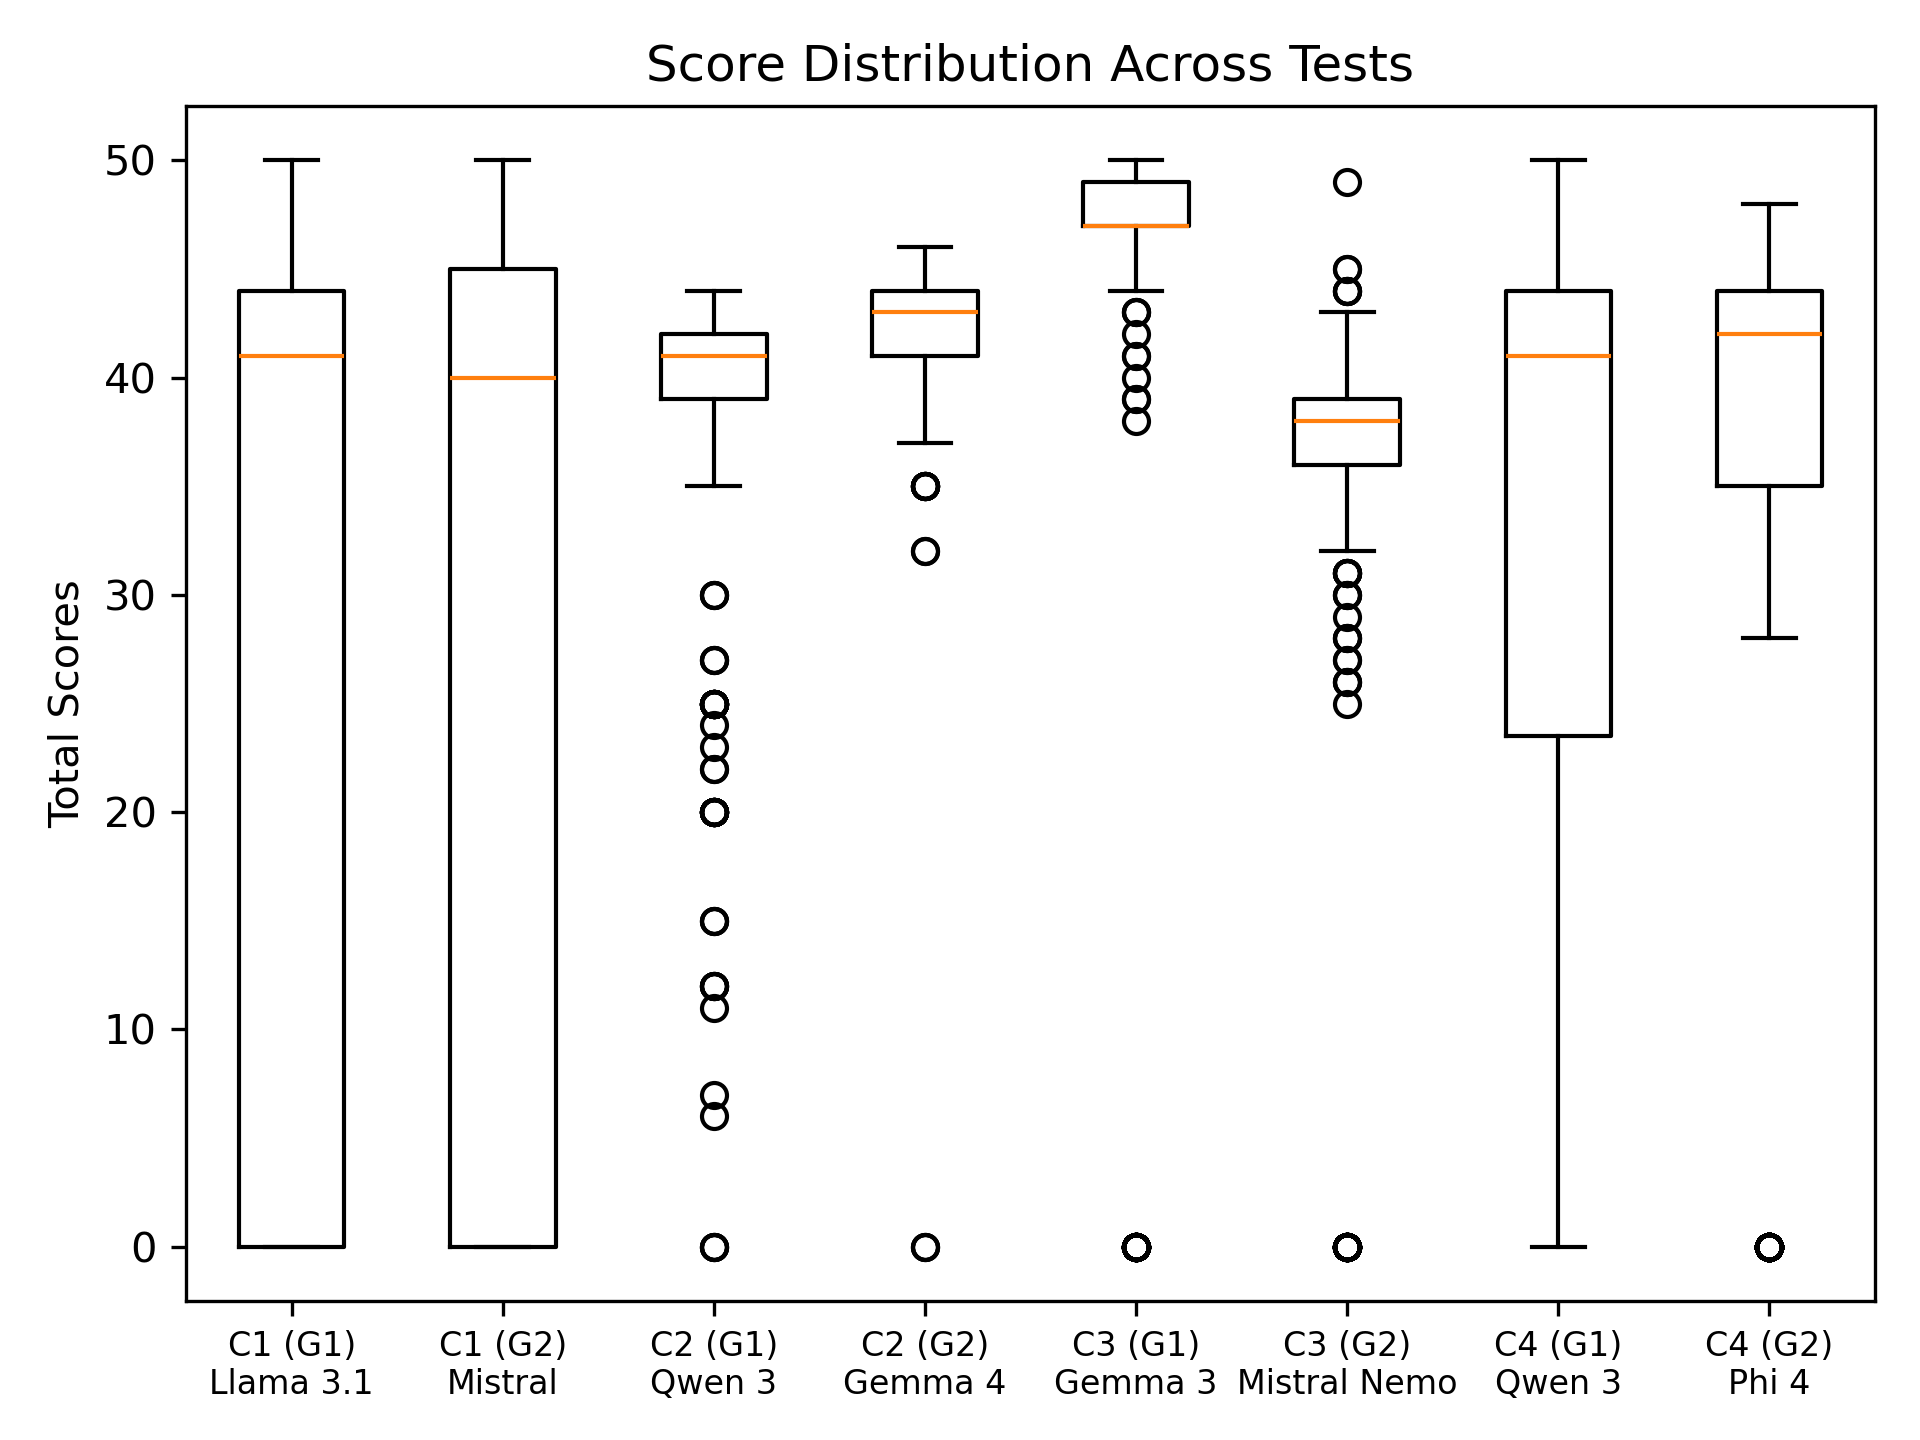
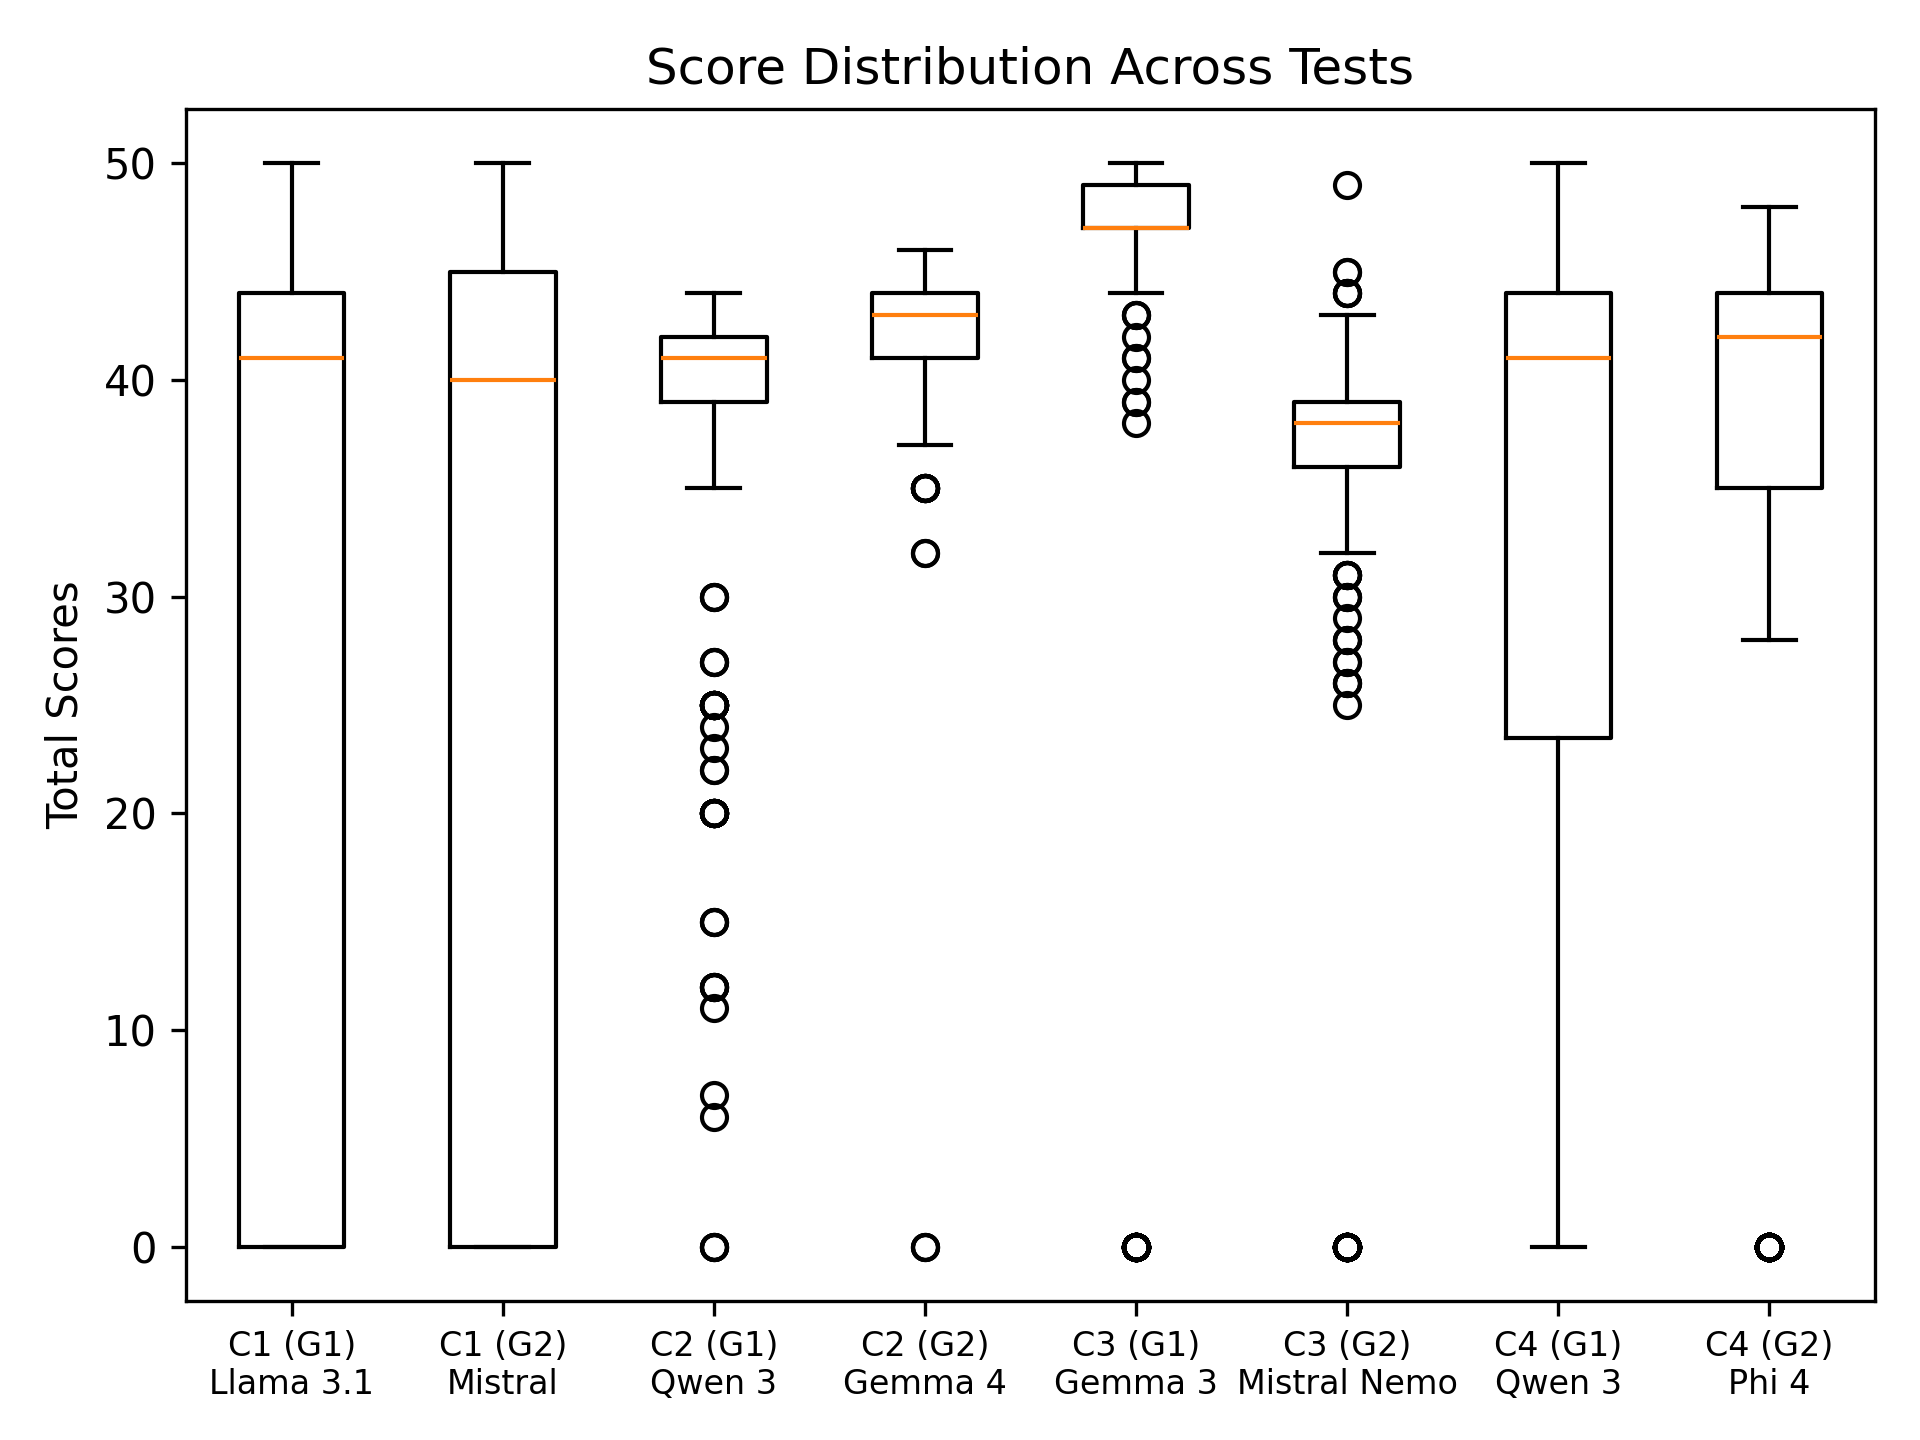
feat: add Spanish plot exports to consolidation script
Add localized versions of score distribution boxplot and criteria
subplots with Spanish labels and titles

diff --git a/examples/scripts/consolidate_results_fix.py b/examples/scripts/consolidate_results_fix.py
@@ -247,6 +247,15 @@ plt.tight_layout()
 
 plt.savefig(os.path.join(OUTPUTS_DIR, "total_score_distribution.png"), dpi=300)
 
+plt.figure()
+plt.boxplot(boxplot_data, tick_labels=boxplot_labels, vert=True)
+plt.ylabel("Puntajes Totales")
+plt.title("Distribución de Puntajes entre Tests")
+plt.xticks(rotation=0, ha="center", fontsize=8)
+plt.tight_layout()
+
+plt.savefig(os.path.join(OUTPUTS_DIR, "total_score_distribution_es.png"), dpi=300)
+
 # ============================
 # SUBPLOTS
 # ============================
@@ -306,6 +315,67 @@ for idx, label in enumerate(CRITERIA_LABELS_EN):
 plt.tight_layout()
 plt.savefig(
     os.path.join(OUTPUTS_DIR, "criteria_subplots.png"),
+    dpi=300,
+    bbox_inches="tight",
+)
+plt.close()
+
+# ============================
+# SUBPLOTS (ES)
+# ============================
+fig = plt.figure(figsize=(10, 10))
+gs = GridSpec(3, 2, figure=fig)
+
+axes = [
+    fig.add_subplot(gs[0, 0]),
+    fig.add_subplot(gs[0, 1]),
+    fig.add_subplot(gs[1, 0]),
+    fig.add_subplot(gs[1, 1]),
+    fig.add_subplot(gs[2, :]),
+]
+
+for idx, label in enumerate(CRITERIA_LABELS_ES):
+    ax = axes[idx]
+
+    g1_vals = pivot_df[(CRITERIA_LABELS_EN[idx], "G1")].values
+    g2_vals = pivot_df[(CRITERIA_LABELS_EN[idx], "G2")].values
+
+    bars_g1 = ax.bar(x - width / 2, g1_vals, width, label="G1")
+    bars_g2 = ax.bar(x + width / 2, g2_vals, width, label="G2")
+
+    if idx == 4:
+        for i, bar in enumerate(bars_g1):
+            config = configs[i]
+            ax.text(
+                bar.get_x() + bar.get_width() / 2,
+                bar.get_height(),
+                model_map[config]["G1"],
+                ha="center",
+                va="bottom",
+                fontsize=7,
+            )
+
+        for i, bar in enumerate(bars_g2):
+            config = configs[i]
+            ax.text(
+                bar.get_x() + bar.get_width() / 2,
+                bar.get_height(),
+                model_map[config]["G2"],
+                ha="center",
+                va="bottom",
+                fontsize=7,
+            )
+
+    ax.set_title(label)
+    ax.set_xticks(x)
+    ax.set_xticklabels(configs)
+    ax.set_ylabel("Puntaje Promedio")
+    ax.set_ylim(0, 10)
+    ax.legend()
+
+plt.tight_layout()
+plt.savefig(
+    os.path.join(OUTPUTS_DIR, "criteria_subplots_es.png"),
     dpi=300,
     bbox_inches="tight",
 )